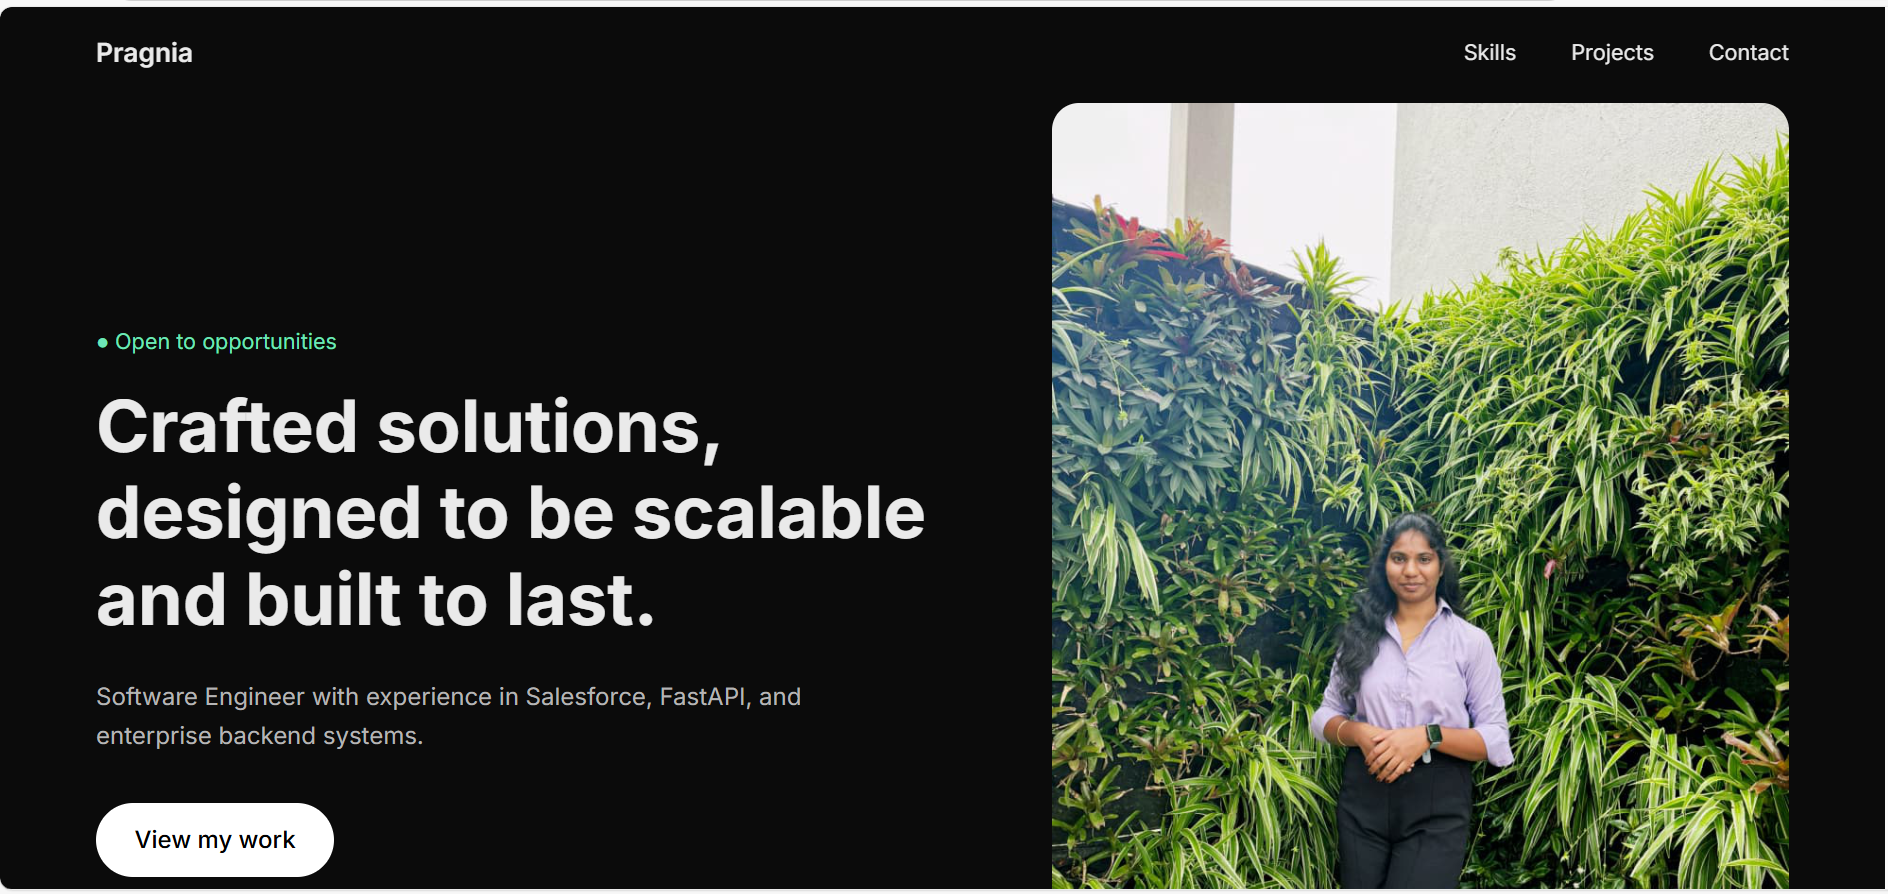
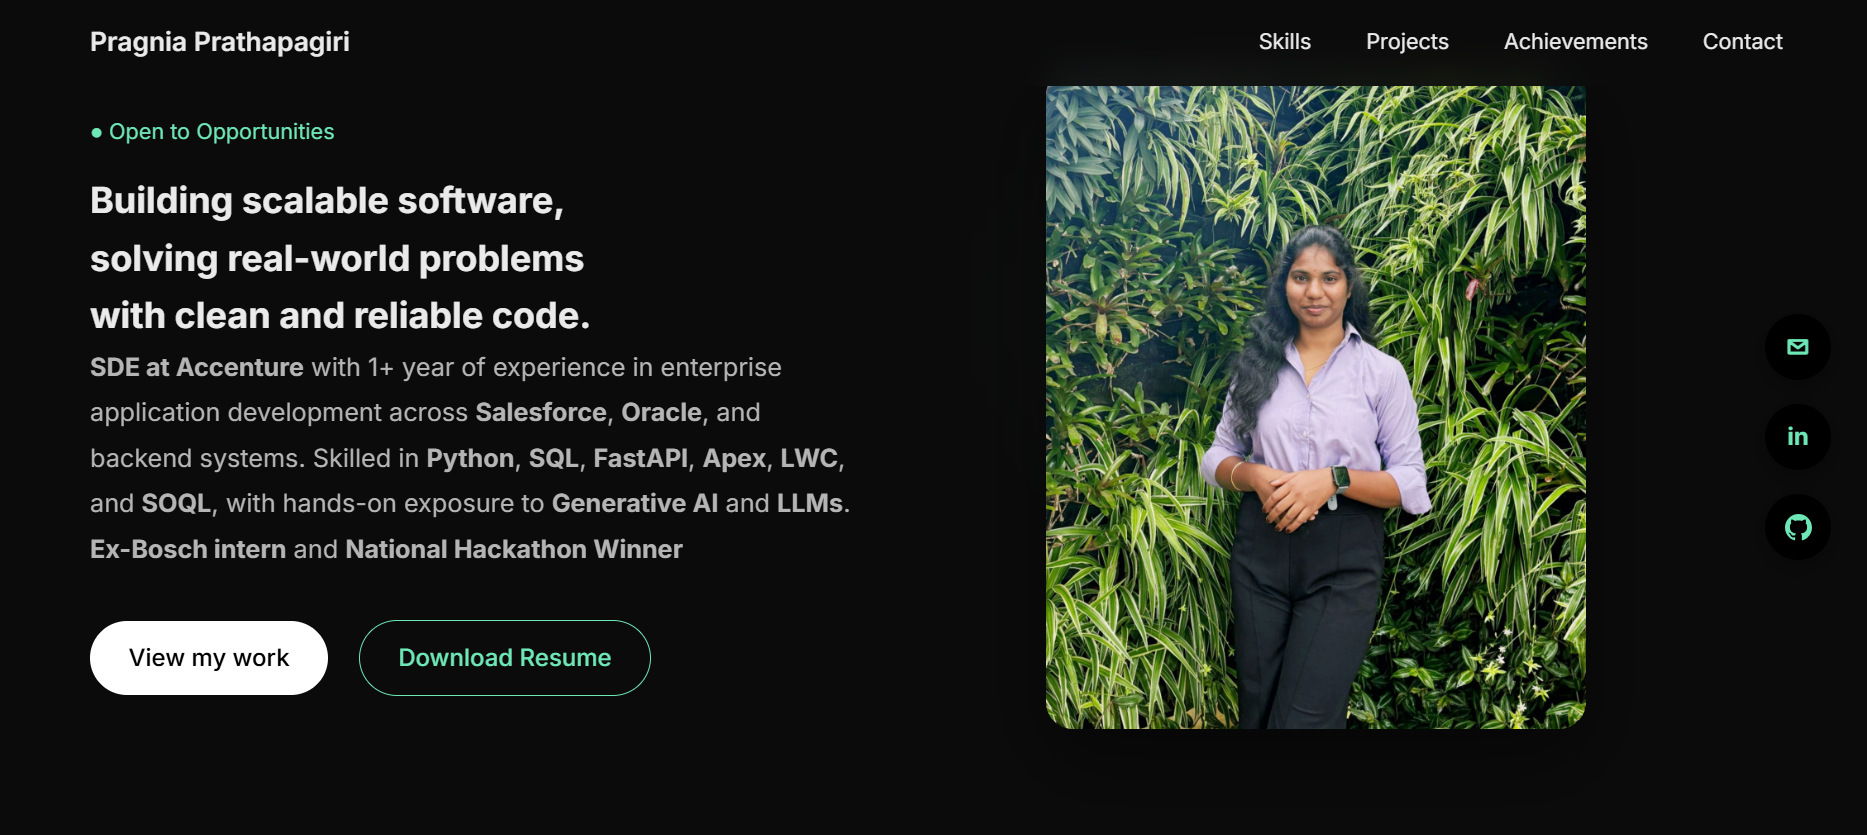
Added Achievements

diff --git a/index.html b/index.html
@@ -20,6 +20,7 @@
     <nav>
       <a href="#skills">Skills</a>
       <a href="#projects">Projects</a>
+      <a href="#achievements">Achievements</a>
       <a href="#" id="contactBtn">Contact</a>
     </nav>
   </header>
@@ -89,14 +90,41 @@
         <span class="tag">Python</span>
         <span class="tag">LangChain</span>
         <span class="tag">LLM</span>
-        <a
-          href="https://github.com/pragnia/chat-with-pdf"
+
+        <a href="https://github.com/pragnia/chat-with-pdf"
           target="_blank"
           class="project-link"
-          aria-label="View GitHub Repository"
-        >
-          GH View Code
+          aria-label="View GitHub Repository">
+          
+          <svg class="github-icon" viewBox="0 0 24 24" aria-hidden="true">
+            <path fill="currentColor"
+              d="M12 0C5.37 0 0 5.37 0 12c0 5.3 3.438 9.8 8.205 11.385.6.113.82-.258.82-.577
+              0-.285-.01-1.04-.015-2.04-3.338.726-4.042-1.61-4.042-1.61
+              -.546-1.387-1.333-1.757-1.333-1.757
+              -1.09-.745.083-.729.083-.729
+              1.205.085 1.84 1.237 1.84 1.237
+              1.07 1.834 2.807 1.304 3.492.997
+              .108-.776.418-1.305.762-1.605
+              -2.665-.305-5.466-1.332-5.466-5.93
+              0-1.31.468-2.38 1.235-3.22
+              -.123-.303-.535-1.523.117-3.176
+              0 0 1.008-.322 3.3 1.23
+              .957-.266 1.983-.399 3.003-.404
+              1.02.005 2.047.138 3.006.404
+              2.29-1.552 3.296-1.23 3.296-1.23
+              .653 1.653.241 2.873.118 3.176
+              .77.84 1.233 1.91 1.233 3.22
+              0 4.61-2.807 5.624-5.48 5.922
+              .43.372.823 1.102.823 2.222
+              0 1.606-.014 2.896-.014 3.286
+              0 .322.218.694.825.576
+              C20.565 21.796 24 17.296 24 12
+              24 5.37 18.63 0 12 0z"/>
+          </svg>
+
+          <span>View Code</span>
         </a>
+
       </div>
 
 
@@ -110,7 +138,35 @@
 
         <a href="https://github.com/pragnia/Portfolio"
           target="_blank"
-          class="project-link">GH View Code</a>
+          class="project-link">
+          <svg class="github-icon" viewBox="0 0 24 24" aria-hidden="true">
+            <path fill="currentColor"
+              d="M12 0C5.37 0 0 5.37 0 12c0 5.3 3.438 9.8 8.205 11.385.6.113.82-.258.82-.577
+              0-.285-.01-1.04-.015-2.04-3.338.726-4.042-1.61-4.042-1.61
+              -.546-1.387-1.333-1.757-1.333-1.757
+              -1.09-.745.083-.729.083-.729
+              1.205.085 1.84 1.237 1.84 1.237
+              1.07 1.834 2.807 1.304 3.492.997
+              .108-.776.418-1.305.762-1.605
+              -2.665-.305-5.466-1.332-5.466-5.93
+              0-1.31.468-2.38 1.235-3.22
+              -.123-.303-.535-1.523.117-3.176
+              0 0 1.008-.322 3.3 1.23
+              .957-.266 1.983-.399 3.003-.404
+              1.02.005 2.047.138 3.006.404
+              2.29-1.552 3.296-1.23 3.296-1.23
+              .653 1.653.241 2.873.118 3.176
+              .77.84 1.233 1.91 1.233 3.22
+              0 4.61-2.807 5.624-5.48 5.922
+              .43.372.823 1.102.823 2.222
+              0 1.606-.014 2.896-.014 3.286
+              0 .322.218.694.825.576
+              C20.565 21.796 24 17.296 24 12
+              24 5.37 18.63 0 12 0z"/>
+          </svg>
+
+          <span>View Code</span>
+        </a>
       </div>
 
       <div class="project-card">
@@ -135,11 +191,84 @@
     </div>
   </section>
 
+<!-- Achievements -->
+  <section class="section light" id="achievements">
+    <h2>Achievements</h2>
+
+    <div class="achievements-grid">
+      <!-- National Hackathon Winner -->
+      <div class="achievement-card">
+        <a href="https://ia.ie.pels.ieeekerala.org/evhack3/" target="_blank">
+          <img src="images/EV_Hackathon_certificate.png" alt="National Hackathon Winner" class="achievement-img">
+          <span class="badge">🏆 Winner</span>
+          <h3>National Hackathon</h3>
+          <p>
+            Developed an <strong>ANN-based battery fault prediction model</strong> for electric vehicles,
+            enabling early detection of critical failures. The solution improved overall
+            <strong>vehicle safety by approximately 30%</strong> through predictive diagnostics
+            and data-driven analysis.
+          </p>
+        </a>
+      </div>
+
+      <!-- SRU Hackathon Finalist -->
+      <div class="achievement-card">
+          <img src="images/SR_Hackathon.jpeg" alt="SRU Hackathon Finalist" class="achievement-img">
+          <span class="badge finalist">🎯 Finalist</span>
+          <h3>SRU Hackathon</h3>
+          <p>
+            Built a <strong>smart street light system using Arduino and LDR sensors</strong>
+            to automate lighting based on Vehicle movement. The system achieved
+            an estimated <strong>40% reduction in energy wastage</strong> compared to
+            conventional street lighting.
+          </p>
+
+      </div>
+      <div class="achievement-card">
+        <a href="https://catalog-education.oracle.com/pls/certview/sharebadge?id=7B686BFF5AD60F2696B41B9A6480804A3204FB643E00F0D6B07439AF58AD6E21" target="_blank">
+          <img src="images/oracle_certificate.png" alt="OCI 2025 Certificate" class="achievement-img">
+          <span class="badge">🏆 Certified</span>
+          <h3>Oracle Cloud Infrastructure 2025 Certified AI Foundations Associate</h3>
+        </a>
+      </div>
+    </div>
+  
+    </section>
+
   <!-- FLOATING SOCIAL -->
   <div class="social-float">
     <a href="mailto:pragnia12@gmail.com" class="sf email">✉</a>
     <a href="https://www.linkedin.com/in/p-pragnia" target="_blank" class="sf linkedin">in</a>
-    <a href="https://github.com/pragnia" target="_blank" class="sf github">GH</a>
+    <a href="https://github.com/pragnia" target="_blank" class="sf github">
+
+  <svg class="github-icon" viewBox="0 0 24 24" aria-hidden="true">
+    <path fill="currentColor"
+      d="M12 0C5.37 0 0 5.37 0 12c0 5.3 3.438 9.8 8.205 11.385.6.113.82-.258.82-.577
+      0-.285-.01-1.04-.015-2.04-3.338.726-4.042-1.61-4.042-1.61
+      -.546-1.387-1.333-1.757-1.333-1.757
+      -1.09-.745.083-.729.083-.729
+      1.205.085 1.84 1.237 1.84 1.237
+      1.07 1.834 2.807 1.304 3.492.997
+      .108-.776.418-1.305.762-1.605
+      -2.665-.305-5.466-1.332-5.466-5.93
+      0-1.31.468-2.38 1.235-3.22
+      -.123-.303-.535-1.523.117-3.176
+      0 0 1.008-.322 3.3 1.23
+      .957-.266 1.983-.399 3.003-.404
+      1.02.005 2.047.138 3.006.404
+      2.29-1.552 3.296-1.23 3.296-1.23
+      .653 1.653.241 2.873.118 3.176
+      .77.84 1.233 1.91 1.233 3.22
+      0 4.61-2.807 5.624-5.48 5.922
+      .43.372.823 1.102.823 2.222
+      0 1.606-.014 2.896-.014 3.286
+      0 .322.218.694.825.576
+      C20.565 21.796 24 17.296 24 12
+      24 5.37 18.63 0 12 0z"/>
+  </svg>
+
+</a>
+
   </div>
 
   <!-- CONTACT MODAL -->
@@ -151,8 +280,41 @@
       <div class="contact-options">
         <a href="mailto:pragnia12@gmail.com" class="c-item">✉ Email</a>
         <a href="https://www.linkedin.com/in/p-pragnia" target="_blank" class="c-item">in LinkedIn</a>
-        <a href="https://github.com/pragnia" target="_blank" class="c-item">GH GitHub</a>
         <a href="resume.pdf" download class="c-item resume">⬇ Resume</a>
+        <a href="https://github.com/pragnia"
+   target="_blank"
+   class="c-item icon-link"
+   aria-label="GitHub Profile">
+
+  <svg class="github-icon" viewBox="0 0 24 24" aria-hidden="true">
+    <path fill="currentColor"
+      d="M12 0C5.37 0 0 5.37 0 12c0 5.3 3.438 9.8 8.205 11.385.6.113.82-.258.82-.577
+      0-.285-.01-1.04-.015-2.04-3.338.726-4.042-1.61-4.042-1.61
+      -.546-1.387-1.333-1.757-1.333-1.757
+      -1.09-.745.083-.729.083-.729
+      1.205.085 1.84 1.237 1.84 1.237
+      1.07 1.834 2.807 1.304 3.492.997
+      .108-.776.418-1.305.762-1.605
+      -2.665-.305-5.466-1.332-5.466-5.93
+      0-1.31.468-2.38 1.235-3.22
+      -.123-.303-.535-1.523.117-3.176
+      0 0 1.008-.322 3.3 1.23
+      .957-.266 1.983-.399 3.003-.404
+      1.02.005 2.047.138 3.006.404
+      2.29-1.552 3.296-1.23 3.296-1.23
+      .653 1.653.241 2.873.118 3.176
+      .77.84 1.233 1.91 1.233 3.22
+      0 4.61-2.807 5.624-5.48 5.922
+      .43.372.823 1.102.823 2.222
+      0 1.606-.014 2.896-.014 3.286
+      0 .322.218.694.825.576
+      C20.565 21.796 24 17.296 24 12
+      24 5.37 18.63 0 12 0z"/>
+  </svg>
+
+  <span>GitHub</span>
+</a>
+
       </div>
     </div>
   </div>

diff --git a/style.css b/style.css
@@ -228,8 +228,7 @@ body {
 }
 
 .project-card:hover {
-  transform: scale(1.05);
-  transform: translateY(-8px);
+  transform: translateY(-8px) scale(1.05);
   box-shadow: 0 16px 35px rgba(0, 0, 0, 0.4);
 }
 
@@ -240,6 +239,73 @@ body {
 .project-card p {
   color: #b5b5b5;
   margin-bottom: 1rem;
+}
+
+/* =========================
+   ACHIEVEMENTS
+========================= */
+
+.achievements-grid {
+  display: grid;
+  grid-template-columns: repeat(auto-fit, minmax(280px, 1fr));
+  gap: 2rem;
+  margin-top: 2rem;
+}
+.achievement-card {
+  position: relative;
+}
+.achievement-card {
+  background: #fff;
+  padding: 1.5rem;
+  border-radius: 18px;
+  box-shadow: 0 10px 25px rgba(0,0,0,0.08);
+  transition: transform 0.25s ease, box-shadow 0.25s ease;
+}
+
+
+.achievement-card a {
+  display: block;
+  text-decoration: none;
+  color: inherit;
+}
+
+.achievement-img {
+  width: 100%;
+  border-radius: 12px;
+  margin-bottom: 1rem;
+  transition: transform 0.3s ease, box-shadow 0.3s ease;
+}
+
+.achievement-card:hover .achievement-img {
+  transform: scale(1.05);
+  box-shadow: 0 12px 28px rgba(0,0,0,0.25);
+}
+
+
+.achievement-card h3 {
+  margin-bottom: 0.6rem;
+}
+
+.achievement-card p {
+  color: #444;
+  font-size: 0.95rem;
+  line-height: 1.6;
+}
+
+.badge {
+  position: absolute;
+  top: -12px;
+  left: 20px;
+  background: #6ee7b7;
+  color: #000;
+  padding: 0.3rem 0.75rem;
+  font-size: 0.75rem;
+  border-radius: 20px;
+  font-weight: 600;
+}
+
+.badge.finalist {
+  background: #93c5fd;
 }
 
 /* =========================
@@ -326,6 +392,18 @@ body {
 
 /* Individual accent colors (optional) */
 .sf.linkedin:hover { background: #0a66c2; color: #fff; }
+.icon-link {
+  display: inline-flex;
+  align-items: center;
+  justify-content: center;
+  gap: 0.6rem;
+}
+
+.github-icon {
+  width: 18px;
+  height: 18px;
+}
+
 .sf.github:hover { background: #333; color: #fff; }
 .sf.email:hover { background: #6ee7b7; color: #000; }
 
@@ -478,4 +556,3 @@ body {
   transform: translateY(-2px);
   text-decoration: underline;
 }
-
